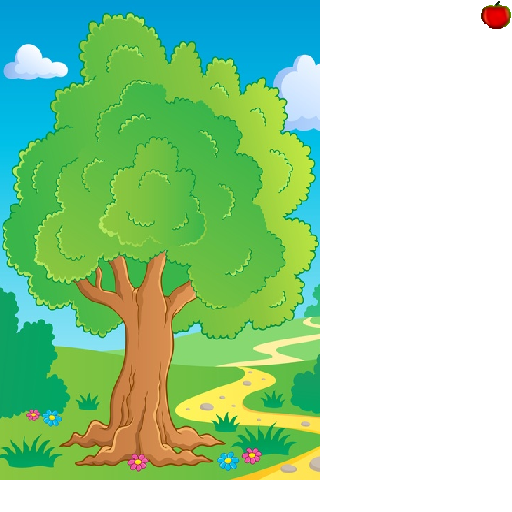
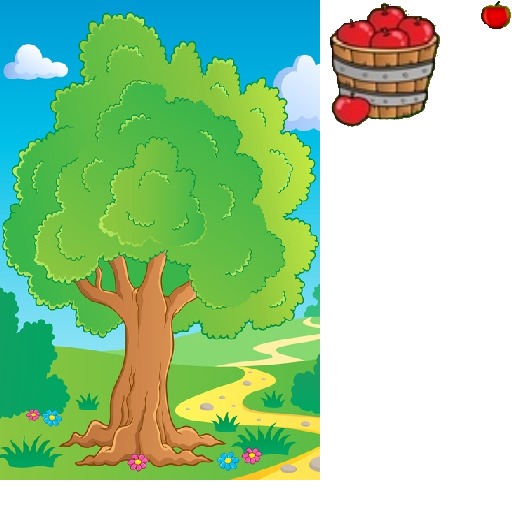
added basket

Changed region(s): [[0.625, 0.0, 0.875, 0.25]]

diff --git a/src/de/pacworx/fallobst/World.java b/src/de/pacworx/fallobst/World.java
@@ -10,10 +10,13 @@ import com.badlogic.gdx.utils.Array;
 public class World {
   public static final int WIDTH = 480;
   public static final int HEIGHT = 720;
+  public static final int STATE_LIVING = 0;
+  public static final int STATE_GAME_OVER = 1;
 
-  public float accelSpeed = 25; //settings for easy
+  public float accelSpeed = 30; //settings for easy
   public float maxFallingSpeed = -150; //settings for easy
   public float gameSpeed = 1;
+  public int state = STATE_LIVING;
 
   private Random random = new Random();
   public Array<Vector2> spawningPositions = new Array<Vector2>(false, 35);
@@ -21,6 +24,7 @@ public class World {
   public Array<Apple> apples = new Array<Apple>(false, 35);
   public Array<Bonus> bonuses = new Array<Bonus>(false, 10);
   private Array<Bonus> bonusPool = new Array<Bonus>(false, 10);
+  public Basket basket = new Basket(WIDTH / 2, 0);
   public int applesCollected = 0;
   private float gameTime = 0f;
 
@@ -30,6 +34,9 @@ public class World {
   }
 
   public void update(float delta, float accel) {
+    if (delta > 0.04) {
+      delta = 0.04f;
+    }
     gameTime += delta;
     for (int i = 0; i < bonuses.size; i++) {
       Bonus bonus = bonuses.get(i);
@@ -42,8 +49,16 @@ public class World {
     }
     for (Apple apple : apples) {
       apple.update(delta, accel, gameSpeed);
-      if ((apple.state == Apple.STATE_FALLING) && (apple.position.y <= 0)) {
+      if (basket.isInBasket(apple.position)) {
         catchedAnApple(apple);
+      }
+      if ((apple.state == Apple.STATE_FALLING) && (apple.position.y <= 0)) {
+        state = STATE_GAME_OVER;
+
+        //TODO tmp code until game over is implemented
+        letAnAppleShakle();
+        spawningPositions.add(apple.originalPosition);
+        apple.spawn(getRandomPosition(), accelSpeed, maxFallingSpeed);
       }
     }
   }
@@ -55,7 +70,7 @@ public class World {
     bonuses.add(bonus);
     bonus.spawn(apple.position.x, apple.position.y);
     applesCollected++;
-    gameSpeed += 0.2f;
+    gameSpeed += 0.4f;
 
     spawningPositions.add(apple.originalPosition);
     apple.spawn(getRandomPosition(), accelSpeed, maxFallingSpeed);
@@ -92,7 +107,7 @@ public class World {
       if (i == 0) {
         apple.spawn(getRandomPosition(), accelSpeed, maxFallingSpeed);
       } else {
-        int state = (i == 1) ? Apple.STATE_FALLING : Apple.STATE_READY;
+        int state = (i == 1) ? Apple.STATE_SHAKLING : Apple.STATE_READY;
         apple.spawnInState(getRandomPosition(), accelSpeed, maxFallingSpeed, state);
       }
       apples.add(apple);
@@ -100,51 +115,51 @@ public class World {
   }
 
   private void createSpawningPositions() {
-    spawningPositions.add(new Vector2(250, 420));
-    spawningPositions.add(new Vector2(170, 650));
-    spawningPositions.add(new Vector2(410, 460));
     spawningPositions.add(new Vector2(50, 395));
-    spawningPositions.add(new Vector2(200, 520));
-    spawningPositions.add(new Vector2(220, 360));
-    spawningPositions.add(new Vector2(360, 500));
-    spawningPositions.add(new Vector2(140, 600));
-    spawningPositions.add(new Vector2(320, 575));
-    spawningPositions.add(new Vector2(100, 550));
-    spawningPositions.add(new Vector2(310, 530));
-    spawningPositions.add(new Vector2(260, 480));
-    spawningPositions.add(new Vector2(200, 400));
-    spawningPositions.add(new Vector2(230, 580));
-    spawningPositions.add(new Vector2(120, 400));
-    spawningPositions.add(new Vector2(280, 360));
-    spawningPositions.add(new Vector2(130, 455));
-    spawningPositions.add(new Vector2(330, 460));
-    spawningPositions.add(new Vector2(140, 485));
-    spawningPositions.add(new Vector2(355, 370));
-    spawningPositions.add(new Vector2(320, 390));
-    spawningPositions.add(new Vector2(275, 540));
     spawningPositions.add(new Vector2(80, 485));
-    spawningPositions.add(new Vector2(360, 500));
-    spawningPositions.add(new Vector2(380, 390));
-    spawningPositions.add(new Vector2(230, 500));
-    spawningPositions.add(new Vector2(190, 600));
-    spawningPositions.add(new Vector2(265, 610));
-    spawningPositions.add(new Vector2(225, 450));
-    spawningPositions.add(new Vector2(285, 430));
+    spawningPositions.add(new Vector2(100, 550));
+    spawningPositions.add(new Vector2(120, 400));
+    spawningPositions.add(new Vector2(130, 455));
+    spawningPositions.add(new Vector2(140, 485));
+    spawningPositions.add(new Vector2(145, 600));
     spawningPositions.add(new Vector2(150, 560));
+    spawningPositions.add(new Vector2(170, 650));
     spawningPositions.add(new Vector2(185, 430));
+    spawningPositions.add(new Vector2(190, 600));
+    spawningPositions.add(new Vector2(195, 400));
     spawningPositions.add(new Vector2(200, 470));
+    spawningPositions.add(new Vector2(205, 545));
+    spawningPositions.add(new Vector2(210, 510));
+    spawningPositions.add(new Vector2(215, 360));
+    spawningPositions.add(new Vector2(225, 430));
+    spawningPositions.add(new Vector2(230, 580));
+    spawningPositions.add(new Vector2(250, 400));
+    spawningPositions.add(new Vector2(260, 480));
+    spawningPositions.add(new Vector2(265, 610));
+    spawningPositions.add(new Vector2(275, 540));
+    spawningPositions.add(new Vector2(280, 360));
+    spawningPositions.add(new Vector2(285, 430));
+    spawningPositions.add(new Vector2(310, 530));
+    spawningPositions.add(new Vector2(315, 390));
+    spawningPositions.add(new Vector2(320, 575));
+    spawningPositions.add(new Vector2(330, 460));
+    spawningPositions.add(new Vector2(355, 370));
+    spawningPositions.add(new Vector2(360, 400));
+    spawningPositions.add(new Vector2(365, 500));
     spawningPositions.add(new Vector2(380, 435));
-    spawningPositions.add(new Vector2(380, 540));
+    spawningPositions.add(new Vector2(390, 540));
+    spawningPositions.add(new Vector2(405, 390));
+    spawningPositions.add(new Vector2(410, 460));
 
-    staticApples.add(new Vector2(350, 330));
-    staticApples.add(new Vector2(100, 330));
-    staticApples.add(new Vector2(125, 225));
-    staticApples.add(new Vector2(300, 235));
-    staticApples.add(new Vector2(365, 245));
-    staticApples.add(new Vector2(430, 325));
-    staticApples.add(new Vector2(340, 290));
-    staticApples.add(new Vector2(300, 300));
-    staticApples.add(new Vector2(70, 270));
-    staticApples.add(new Vector2(400, 270));
+    staticApples.add(new Vector2(352, 330));
+    staticApples.add(new Vector2(102, 330));
+    staticApples.add(new Vector2(127, 225));
+    staticApples.add(new Vector2(302, 235));
+    staticApples.add(new Vector2(363, 245));
+    staticApples.add(new Vector2(432, 325));
+    staticApples.add(new Vector2(342, 290));
+    staticApples.add(new Vector2(302, 300));
+    staticApples.add(new Vector2(72, 270));
+    staticApples.add(new Vector2(402, 270));
   }
 }

diff --git a/src/de/pacworx/fallobst/Fallobst.java b/src/de/pacworx/fallobst/Fallobst.java
@@ -50,6 +50,8 @@ public class Fallobst implements ApplicationListener {
     batch.begin();
     batch.draw(Assets.background, 0, 0, World.WIDTH, World.HEIGHT);
 
+    batch.draw(Assets.basket, world.basket.position.x, world.basket.position.y, Basket.SIZE, Basket.SIZE);
+
     for (Vector2 vec : world.staticApples) {
       batch.draw(Assets.apple, vec.x, vec.y, Apple.APPLE_SIZE, Apple.APPLE_SIZE);
     }
@@ -63,6 +65,12 @@ public class Fallobst implements ApplicationListener {
     batch.draw(Assets.apple, 20, 675, 32, 32);
     font.draw(batch, ": ", 54, 706);
     font.draw(batch, "" + world.applesCollected, 64, 704);
+
+    //    if (Gdx.input.isTouched()) {
+    //      Vector3 vec = new Vector3(Gdx.input.getX(), Gdx.input.getY(), 0);
+    //      camera.unproject(vec);
+    //      font.draw(batch, "X: " + vec.x + "; Y: " + vec.y, 10, 40);
+    //    }
     batch.end();
   }
 

diff --git a/src/de/pacworx/fallobst/Basket.java b/src/de/pacworx/fallobst/Basket.java
@@ -1,0 +1,24 @@
+package de.pacworx.fallobst;
+
+import com.badlogic.gdx.math.Vector2;
+
+
+public class Basket {
+  public static final float SIZE = 120;
+  private final float Y_BOUND = SIZE * 2 / 3;
+  public final Vector2 position = new Vector2();
+
+
+  public Basket(float x, float y) {
+    position.x = x;
+    position.y = y;
+  }
+
+  public boolean isInBasket(Vector2 point) {
+    if ((point.x >= position.x) && (point.x <= (position.x + SIZE)) &&
+        (point.y >= position.y) && (point.y <= (position.y + Y_BOUND))) {
+      return true;
+    }
+    return false;
+  }
+}

diff --git a/src/de/pacworx/fallobst/Assets.java b/src/de/pacworx/fallobst/Assets.java
@@ -9,11 +9,13 @@ public class Assets {
   public static Texture atlas;
   public static TextureRegion background;
   public static TextureRegion apple;
+  public static TextureRegion basket;
 
   public static void init() {
     atlas = new Texture(Gdx.files.internal("fallobst/atlas.png"));
     background = new TextureRegion(atlas, 0, 0, 320, 480);
     apple = new TextureRegion(atlas, 480, 0, 32, 32);
+    basket = new TextureRegion(atlas, 320, 0, 128, 128);
   }
 
   public static void dispose() {

diff --git a/src/de/pacworx/fallobst/Apple.java b/src/de/pacworx/fallobst/Apple.java
@@ -77,7 +77,7 @@ public class Apple {
         if (velocity.y > (maxFallingSpeed * gameSpeed)) {
           velocity.add(0, GRAVITY * gameSpeed * delta);
         }
-        velocity.x = -accel * gameSpeed * accelSpeed;
+        velocity.x = -accel * accelSpeed;
         position.add(velocity.x * delta, velocity.y * delta);
         if (position.x < (size / 2)) {
           position.x = size / 2;
